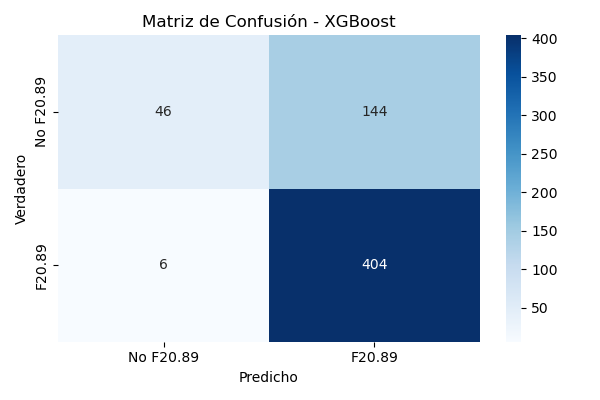
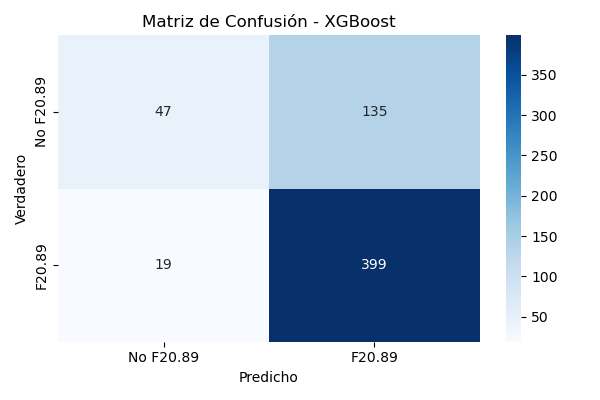
Recopilacion de datos clasificadores arboles

diff --git a/code/clasificadores/datos_clasificadores.py b/code/clasificadores/datos_clasificadores.py
@@ -12,7 +12,7 @@ from sklearn.metrics import roc_curve, roc_auc_score, classification_report, con
 import matplotlib.pyplot as plt
 import seaborn as sns
 
-dataset =  "recursos/otros/BERT/diagnosticos_F20_F20.89_combinados.csv"
+dataset =  "recursos/otros/BERT/diagnosticos_F20_F20.89_con_descripcion_sin_dups_limpio.csv"
 df = pl.read_csv(dataset, separator="|")
 
 seed = int(time.time_ns() % (2**32))
@@ -28,11 +28,11 @@ for col in X.columns:
     X[col] = le.fit_transform(X[col].astype(str))
 
 y = df.select(
-    pl.col("DIAG PSQ").str.contains("F20.89").cast(pl.Int32).alias("target")
+    pl.col("DIAG PSQ").str.contains("Otros tipos de esquizofrenia").cast(pl.Int32).alias("target")
 ).to_pandas()["target"]
 
 # Cargar parámetros desde JSON
-with open(r"code\verificar\params.json", "r") as f:
+with open(r"code/verificar/params.json", "r") as f:
     all_params = json.load(f)
 
 # Seleccionar el dataset que estás usando
